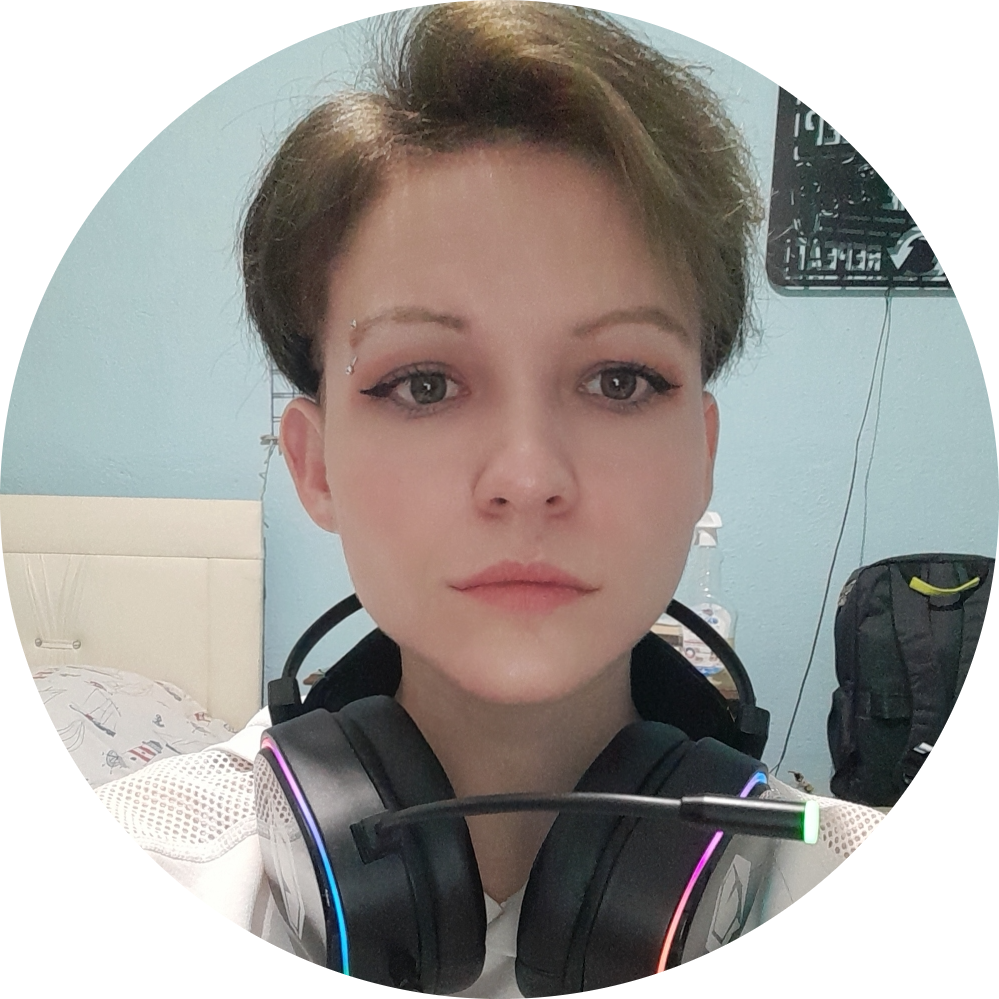
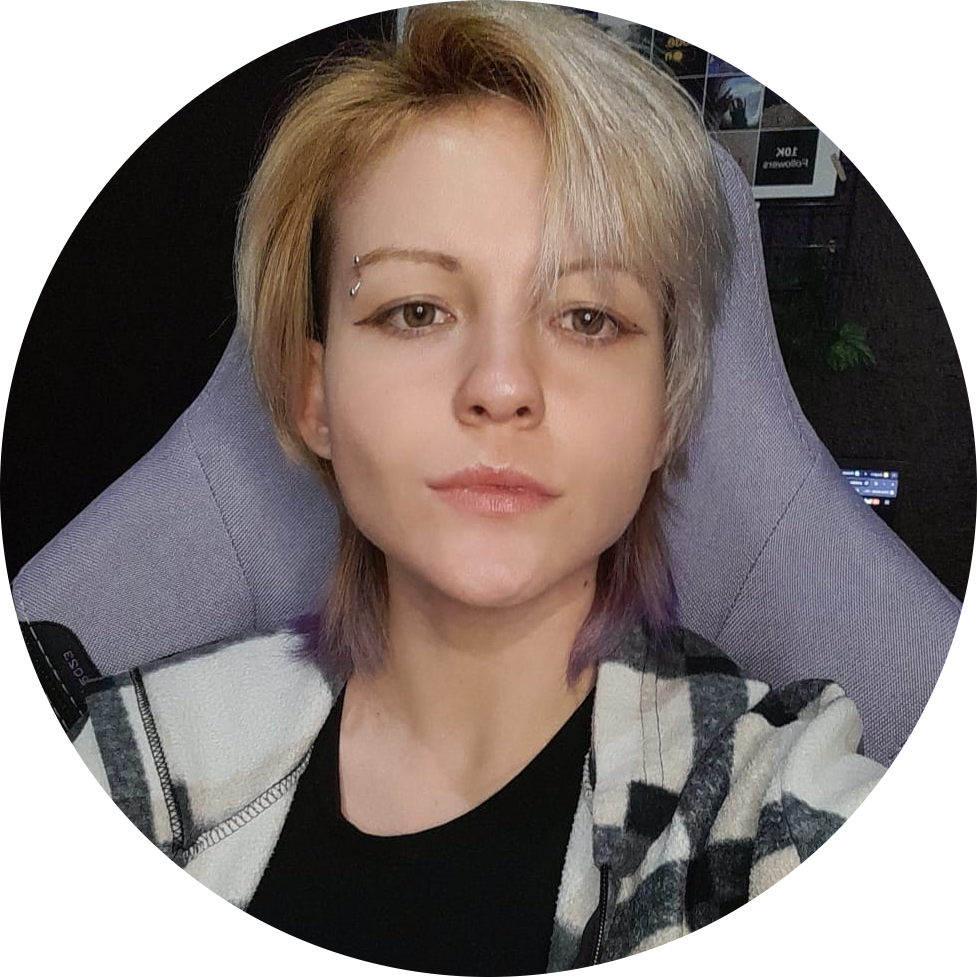
added new profile

diff --git a/components/sidebar.tsx b/components/sidebar.tsx
@@ -30,7 +30,7 @@ const Sidebar = () => {
       </div>
 
       <div className="h-10  flex items-center justify-center rounded-lg cursor-pointer hover:bg-purple-700  hover:duration-300 hover:ease-linear ">
-           <Link target="_blank" href='https://www.twitch.tv/rainundertheplane'> 
+           <Link target="_blank" href='https://www.twitch.tv/soradearu'> 
            <Image width={30} height={30} className="fill-black" src="/live.png" alt='live-stream'  /> </Link>
      </div>
 

diff --git a/components/header.tsx b/components/header.tsx
@@ -14,7 +14,7 @@ const Header = () => {
      
        <div className="text-md font-medium ">Sam</div>
      
-       <div className="text-sm font-regular">Full Stack Developer</div>
+       <div className="text-sm font-regular">Full Stack Web Developer</div>
      </div>
 
      <div className="h-10 w-10 rounded-full cursor-pointer bg-gray-200 border-2 border-blue-400">
